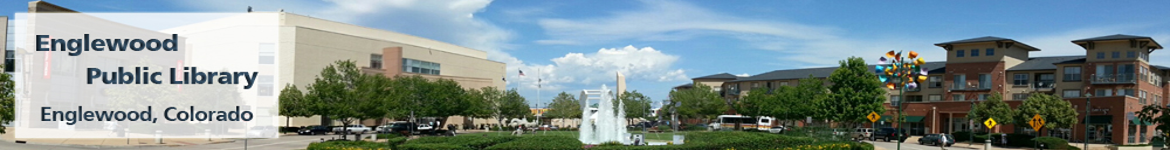
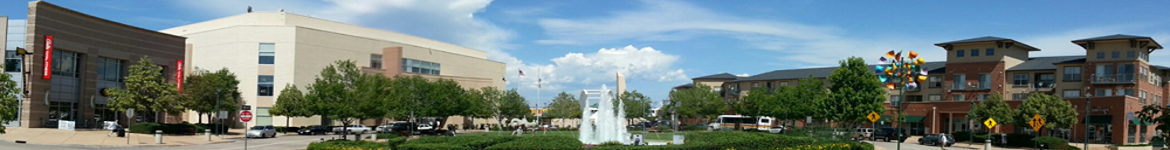
Update header for englewood

Changed region(s): [[0.0, 0.0533, 0.2462, 0.9333]]

diff --git a/vufind/web/interface/themes/englewood/css/main.min.css b/vufind/web/interface/themes/englewood/css/main.min.css
@@ -5,4 +5,4 @@
  * Licensed under the Apache License v2.0
  * http://www.apache.org/licenses/LICENSE-2.0
  *
- */.datepicker{top:0;left:0;padding:4px;margin-top:1px;border-top-right-radius:4px;border-bottom-right-radius:4px;border-bottom-left-radius:4px;border-top-left-radius:4px}.datepicker:before{content:'';display:inline-block;border-left:7px solid transparent;border-right:7px solid transparent;border-bottom:7px solid #ccc;border-bottom-color:rgba(0,0,0,0.2);position:absolute;top:-7px;left:6px}.datepicker:after{content:'';display:inline-block;border-left:6px solid transparent;border-right:6px solid transparent;border-bottom:6px solid #fff;position:absolute;top:-6px;left:7px}.datepicker>div{display:none}.datepicker table{width:100%;margin:0}.datepicker td,.datepicker th{text-align:center;width:20px;height:20px;border-top-right-radius:4px;border-bottom-right-radius:4px;border-bottom-left-radius:4px;border-top-left-radius:4px}.datepicker td.day:hover{background:#eee;cursor:pointer}.datepicker td.day.disabled{color:#eee}.datepicker td.old,.datepicker td.new{color:#999}.datepicker td.active,.datepicker td.active:hover{color:#428bca;background-color:#425eca;border-color:#357ebd;color:#fff;text-shadow:0 -1px 0 rgba(0,0,0,0.25)}.datepicker td.active:hover,.datepicker td.active:hover:hover,.datepicker td.active:focus,.datepicker td.active:hover:focus,.datepicker td.active:active,.datepicker td.active:hover:active,.datepicker td.active.active,.datepicker td.active:hover.active,.open .dropdown-toggle.datepicker td.active,.open .dropdown-toggle.datepicker td.active:hover{color:#428bca;background-color:#324cb1;border-color:#285e8e}.datepicker td.active:active,.datepicker td.active:hover:active,.datepicker td.active.active,.datepicker td.active:hover.active,.open .dropdown-toggle.datepicker td.active,.open .dropdown-toggle.datepicker td.active:hover{background-image:none}.datepicker td.active.disabled,.datepicker td.active:hover.disabled,.datepicker td.active[disabled],.datepicker td.active:hover[disabled],fieldset[disabled] .datepicker td.active,fieldset[disabled] .datepicker td.active:hover,.datepicker td.active.disabled:hover,.datepicker td.active:hover.disabled:hover,.datepicker td.active[disabled]:hover,.datepicker td.active:hover[disabled]:hover,fieldset[disabled] .datepicker td.active:hover,fieldset[disabled] .datepicker td.active:hover:hover,.datepicker td.active.disabled:focus,.datepicker td.active:hover.disabled:focus,.datepicker td.active[disabled]:focus,.datepicker td.active:hover[disabled]:focus,fieldset[disabled] .datepicker td.active:focus,fieldset[disabled] .datepicker td.active:hover:focus,.datepicker td.active.disabled:active,.datepicker td.active:hover.disabled:active,.datepicker td.active[disabled]:active,.datepicker td.active:hover[disabled]:active,fieldset[disabled] .datepicker td.active:active,fieldset[disabled] .datepicker td.active:hover:active,.datepicker td.active.disabled.active,.datepicker td.active:hover.disabled.active,.datepicker td.active[disabled].active,.datepicker td.active:hover[disabled].active,fieldset[disabled] .datepicker td.active.active,fieldset[disabled] .datepicker td.active:hover.active{background-color:#425eca;border-color:#357ebd}.datepicker td.active .badge,.datepicker td.active:hover .badge{color:#425eca;background-color:#fff}.datepicker td span{display:block;width:47px;height:54px;line-height:54px;float:left;margin:2px;cursor:pointer;border-top-right-radius:4px;border-bottom-right-radius:4px;border-bottom-left-radius:4px;border-top-left-radius:4px}.datepicker td span:hover{background:#eee}.datepicker td span.active{color:#428bca;background-color:#425eca;border-color:#357ebd;color:#fff;text-shadow:0 -1px 0 rgba(0,0,0,0.25)}.datepicker td span.active:hover,.datepicker td span.active:focus,.datepicker td span.active:active,.datepicker td span.active.active,.open .dropdown-toggle.datepicker td span.active{color:#428bca;background-color:#324cb1;border-color:#285e8e}.datepicker td span.active:active,.datepicker td span.active.active,.open .dropdown-toggle.datepicker td span.active{background-image:none}.datepicker td span.active.disabled,.datepicker td span.active[disabled],fieldset[disabled] .datepicker td span.active,.datepicker td span.active.disabled:hover,.datepicker td span.active[disabled]:hover,fieldset[disabled] .datepicker td span.active:hover,.datepicker td span.active.disabled:focus,.datepicker td span.active[disabled]:focus,fieldset[disabled] .datepicker td span.active:focus,.datepicker td span.active.disabled:active,.datepicker td span.active[disabled]:active,fieldset[disabled] .datepicker td span.active:active,.datepicker td span.active.disabled.active,.datepicker td span.active[disabled].active,fieldset[disabled] .datepicker td span.active.active{background-color:#425eca;border-color:#357ebd}.datepicker td span.active .badge{color:#425eca;background-color:#fff}.datepicker td span.old{color:#999}.datepicker th.switch{width:145px}.datepicker th.next,.datepicker th.prev{font-size:21px}.datepicker thead tr:first-child th{cursor:pointer}.datepicker thead tr:first-child th:hover{background:#eee}.input-append.date .add-on i,.input-prepend.date .add-on i{display:block;cursor:pointer;width:16px;height:16px}body{color:#6b6b6b}#content-container{padding:0}@media(max-width:768px){#content-container{width:auto}}@media(min-width:768px){#content-container{width:100%}}hr.menu{margin-top:3px;margin-bottom:3px;height:0;border-top:1px solid #d3d3d3}.breadcrumbs{background-color:#f5f5f5;padding:3px}.breadcrumb{padding:0;margin-bottom:0}.breadcrumb>li{display:inline-block}.breadcrumb>li+li:before{content:"";padding:0 5px;color:#ccc}div#system-message-header{background-color:#fff;color:black;text-align:center;padding:3px}#header-container{padding-top:0;height:150px;background-color:#fff;background:linear-gradient(to bottom,#fff,#fff 85%,#fff);border-bottom:8px solid #01597d;margin-bottom:0;min-height:110px}#header-logo{padding:10px 10px 0 0}@media(max-width:767px){#header-logo{max-width:100%;height:auto}}.header-button{text-align:center;height:142px!important;border-bottom:4px solid #fff}.header-button>a{line-height:142px!important;text-align:center;vertical-align:middle;padding:0;color:#8b8b8b!important;text-shadow:1px 1px white}.header-button>a:visited{color:#8b8b8b!important}.header-button:hover{border-bottom:4px solid #2a6496}.header-primary{border-left:2px solid #d9d8d8;border-right:2px solid #d9d8d8}#library-name-header{font-size:26px;color:#45820d;font-family:"Avante Garde",Verdana,sans-serif;font-weight:bold;white-space:normal;padding-top:5px}#footer-container{border-top:8px solid #01597d;padding-top:3px}#install-info{padding-left:20px}#connect-with-us-info{padding-right:20px}#connect-with-us-label{margin-right:15px}.connect-icon{padding:0 3px 0 3px}#navigation-controls{border-top:8px solid #01597d;background:white}@media print{#side-bar{display:none}}#main-content-with-sidebar{padding-right:0;padding-bottom:15px}#main-content-with-sidebar>.row{margin-right:-30px}.modal{overflow-y:auto}.modal-buttons{margin-left:3px;margin-right:3px}#home-page-search{background-color:#00a4e3;background:linear-gradient(to bottom,#00a4e3,#147ce2);padding:20px 0 10px;margin-bottom:5px}#home-page-search-label{font-size:35px;color:white;text-shadow:1px 1px #999}#home-page-advanced-search-link{color:white}#searchSource{padding:5px 0;color:white;background-color:#147ce2;border:0;width:90%}#keepFiltersSwitchLabel{color:white;font-weight:normal}.sidebar-bold-button{text-align:center;background-color:#7c7c7d;background:linear-gradient(to bottom,#7c7c7d,#3d4244);color:white;padding:3px 0;margin-bottom:15px}.sidebar-bold-button a{color:white}#home-page-login{background-color:#afafaf;color:white;font-size:18px;text-shadow:1px 1px #999;padding:5px;margin-bottom:5px}#home-page-login a{color:white}#home-page-library-section{background-color:#eee;padding:15px 0;height:100%}#home-page-hours-locations{text-align:center;background-color:#7c7c7d;background:linear-gradient(to bottom,#7c7c7d,#3d4244);color:white;padding:3px 0;margin-bottom:15px}#home-page-hours-locations a{color:white}.sidebar-links .panel-group .panel+.panel{margin-top:0}.sidebar-links .panel-heading{padding:5px 15px;background-color:#e7e7e7;background:linear-gradient(to bottom,#e7e7e7,#d7d7d7);border-bottom:1px solid #a1a1a1}.sidebar-links .active .panel-heading{background-color:#4dacde;background:linear-gradient(to bottom,#4dacde,#2796d1)}.sidebar-links .panel-title{font-size:14px;color:#333;text-shadow:1px 1px white}.sidebar-links .active .panel-title{color:white;text-shadow:1px 1px #555}.sidebar-links .panel-body{font-size:13px;color:#333;background-color:#eee}#home-page-browse-header{background-color:#d7dce3;padding-bottom:15px}#home-page-browse-content{background-color:#d7dce3}#browse-label{height:5px;background-color:#bbd4e3;margin-top:15px;margin-bottom:15px;margin-right:-15px}.browse-label-text{background-color:#d7dce3;font-size:22px;color:#3497d1;line-height:5px;vertical-align:top;margin:auto;padding:0 8px}.browse-arrow{background-color:#9ea0a4;color:#d4d4d4;height:100px;font-weight:bold;vertical-align:center;line-height:90px;font-size:22px}#browse-category-picker .jcarousel-control-prev,#browse-category-picker .jcarousel-control-next{background-color:#9e9fa3;color:#d4d4d4;font-size:50px}.browse-category{color:white;font-size:20px;padding:10px;text-shadow:1px 1px #555;background-color:#5fb7db;height:100px;margin-left:4px;marging-right:4px}.browse-category a{color:white}.browse-category a div{height:80px}.browse-category.selected{border:2px solid #3497d1}.browse-category.category0{background-color:#0d8ec7;background:linear-gradient(to bottom,#0d8ec7,#0d8ec7 82%,#64b7d8 83%,#89cae5 84%,#89cae5 88%,#64b7d8 89%,#0d8ec7 90%,#0d8ec7)}.browse-category.category1{background-color:#0e98d5;background:linear-gradient(to bottom,#0e98d5,#0e98d5 82%,#64b7d8 83%,#89cae5 84%,#89cae5 88%,#64b7d8 89%,#0e98d5 90%,#0e98d5)}.browse-category.category2{background-color:#0fa2e4;background:linear-gradient(to bottom,#0fa2e4,#0fa2e4 82%,#64b7d8 83%,#89cae5 84%,#89cae5 88%,#64b7d8 89%,#0fa2e4 90%,#0fa2e4)}.browse-category.category3{background-color:#12acf0;background:linear-gradient(to bottom,#12acf0,#12acf0 82%,#64b7d8 83%,#89cae5 84%,#89cae5 88%,#64b7d8 89%,#12acf0 90%,#12acf0)}.browse-category.category4{background-color:#21b1f0;background:linear-gradient(to bottom,#21b1f0,#21b1f0 82%,#64b7d8 83%,#89cae5 84%,#89cae5 88%,#64b7d8 89%,#21b1f0 90%,#21b1f0)}.browse-category.category5{background-color:#2fb6f1;background:linear-gradient(to bottom,#2fb6f1,#2fb6f1 82%,#64b7d8 83%,#89cae5 84%,#89cae5 88%,#64b7d8 89%,#2fb6f1 90%,#2fb6f1)}.browse-category.category6{background-color:#3dbbf2;background:linear-gradient(to bottom,#3dbbf2,#3dbbf2 82%,#64b7d8 83%,#89cae5 84%,#89cae5 88%,#64b7d8 89%,#3dbbf2 90%,#3dbbf2)}.browse-category.category7{background-color:#4cc0f3;background:linear-gradient(to bottom,#4cc0f3,#4cc0f3 82%,#64b7d8 83%,#89cae5 84%,#89cae5 88%,#64b7d8 89%,#4cc0f3 90%,#4cc0f3)}.browse-category.category8{background-color:#5ac5f4;background:linear-gradient(to bottom,#5ac5f4,#5ac5f4 82%,#64b7d8 83%,#89cae5 84%,#89cae5 88%,#64b7d8 89%,#5ac5f4 90%,#5ac5f4)}#home-page-browse-results{padding:15px;background-color:white}#selected-browse-label{background-color:white;background:linear-gradient(to bottom,#fff,#fff 44%,#bbd4e3 45%,#bbd4e3 55%,#fff 56%);margin-bottom:5px}.selected-browse-label-text{background-color:white;font-size:20px;color:#0072bc;vertical-align:top;float:left;margin-left:20px;padding:0 8px}.selected-browse-label-search{background-color:white;font-size:20px;color:#0072bc;vertical-align:top;float:right;margin-right:20px;padding:0 8px}.selected-browse-label-search a{color:#0072bc}.browse-category:hover{background-color:lightskyblue;color:darkblue}.browse-rating{margin-top:5px}#home-page-browse-thumbnails{-webkit-column-gap:15px;-moz-column-gap:15px;column-gap:15px}@media(min-width:0){#home-page-browse-thumbnails{-webkit-column-count:2;-moz-column-count:2;column-count:2}}@media(min-width:768px){#home-page-browse-thumbnails{-webkit-column-count:3;-moz-column-count:3;column-count:3}}@media(min-width:992px){#home-page-browse-thumbnails{-webkit-column-count:4;-moz-column-count:4;column-count:4}}@media(min-width:1200px){#home-page-browse-thumbnails{-webkit-column-count:6;-moz-column-count:6;column-count:6}}.browse-thumbnail{break-inside:avoid-column;-webkit-column-break-inside:avoid;display:inline-block}.browse-thumbnail{text-align:center}.browse-thumbnail img{width:100%}#more-browse-results{background-color:#e6e6e6;color:#c7c9ca;text-align:center;font-weight:bold;font-size:16px;padding:2px}#account-settings-accordion .panel-group .panel+.panel{margin-top:0}#account-settings-accordion .panel-heading{padding:5px 15px;background:linear-gradient(to bottom,#e7e7e7,#d7d7d7);border-bottom:1px solid #a1a1a1}#account-settings-accordion .active .panel-heading{background:linear-gradient(to bottom,#4dacde,#0f8fd2)}#account-settings-accordion .panel-title{font-size:13px;color:#333;text-shadow:1px 1px white}#account-settings-accordion .active .panel-title{color:white;text-shadow:1px 1px #555}#account-settings-accordion .panel-body{font-size:12px;color:#333;background-color:#eee}.overdueLabel{color:red;font-weight:bold}.dueSoonLabel{color:#e58e29;font-weight:bold}.faqQuestion{font-size:medium;color:blue;font-weight:bold;margin-top:15px}.faqAnswer{font-size:small;font-style:italic;margin-left:1em}.wikipedia_image{margin:0 10px 10px}@media(min-width:767px){.wikipedia_image{float:left}}@media(max-width:767px){.wikipedia_image{display:block;margin:0 auto 10px}}.titleScrollerHeader{background:url(/interface/themes/default/images/breadcrumb-gradient.png) repeat-x top left;padding:2px;color:#00125e;font-size:12px;font-weight:bold;height:15px}.titleScrollerHeader .linkTab{padding-right:10px;float:left}.titleScrollerHeader .linkTab .first{padding-right:0}#listSelection{border:0;background:0;color:#00125e}.titleScrollerBody{background-color:white;clear:both;position:relative}.leftScrollerButton{display:inline-block;height:135px;line-height:135px;vertical-align:middle;width:25px;float:left;cursor:pointer;margin-left:5px;margin-top:5px;zoom:1;*display:inline}.rightScrollerButton{display:inline-block;height:135px;line-height:135px;vertical-align:middle;width:25px;float:right;cursor:pointer;margin-right:5px;margin-top:5px;z-index:100;zoom:1;*display:inline}.titleScrollerSelectedTitle{width:100%;text-align:center;font-weight:bold;color:#00125e}.titleScrollerSelectedAuthor{width:100%;text-align:center;font-weight:bold;color:#a9a9a9}.scrollerBodyContainer{position:relative;overflow:hidden;margin:5px 40px}.scrollerBody{padding:7px;margin:0 7px;height:140px;position:relative}.scrollerLoadingContainer{width:100%;padding-top:40px;text-align:center}.scrollerTitle{display:inline-block;margin:2px;vertical-align:middle;padding:3px;max-width:129px;zoom:1;*display:inline}.scrollerTitleCover{max-width:125px;max-height:125px;padding:3px}.scrollerTitle img{opacity:.6}.scrollerTitle:hover img{opacity:.8}.scrollerTitle.selected{border:3px solid #00125e;border-radius:3px;padding:0}.scrollerTitle.selected img{opacity:1}.listWidgetSelector{width:100%;text-align:right}.singleTitleWidget{width:200px}.singleTitleWidget .scrollerTitle img{display:inline-block;opacity:1}.singleTitleWidget .scrollerTitle.selected img{display:inline-block}.singleTitleWidget .scrollerTitle.selected{border:0 solid black;border-radius:3px;padding:0}.singleTitleWidget .scrollerBodyContainer{margin:5px 0;text-align:center;width:100%}.verticalTitleScroller{width:150px;height:100%}.verticalTitleScroller .titleScrollerBody{position:relative;overflow:hidden}.verticalTitleScroller .scrollerTitle{display:block}.verticalTitleScroller .scrollerBodyContainer{margin:5px;text-align:center}.scrollerButtonUp{z-index:100;position:absolute;top:0;left:0;height:25px;width:148px;cursor:pointer;text-align:center}.scrollerButtonDown{position:absolute;bottom:0;left:0;height:25px;width:148px;cursor:pointer;z-index:100;text-align:center}.holdingsSummary{margin-left:5px;padding:7px}.statVal{padding:6px 0 2px}#list-series.titleScroller{border:1px solid #949494}#list-series{margin:8px 0}#list-morelikethis.titleScroller{border:1px solid #949494}#list-morelikethis{margin:8px 0}.statusValue.available,.statusValue.here{color:#090;font-weight:bold}.statusValue.nearby,.holdingsSummaryStatusLine.availableOther{color:#b09;font-weight:bold}.statusValue.unavailable,.statusValue.checkedOut,.statusValue.checkedout,.statusValue.reserve{color:#c00;font-weight:bold}#recordcover{position:relative}.godeeper{bottom:4px;float:right;position:absolute;right:-5px;z-index:2}.eContentHolding{width:100%;border:1px solid #aaa;border-radius:3px;margin-bottom:10px;position:relative;background-color:white}.eContentHoldingHeader{background-color:#ededed;padding:5px;font-size:12px}.eContentHoldingFormat{font-weight:bold;font-size:14px}.eContentHoldingUsage{font-style:italic;font-size:12px}.eContentHoldingActions{margin:8px 10px}.eContentHoldingNotes{font-size:11px;margin:2px 10px}.eContentFormatUsage{font-size:11px}.hold_result_title_failed{color:#a94442}.hold_result_title_ok{color:#3c763d}.checkInCell{border:1px solid #3e63a6;float:left;height:5em;padding:4px;width:150px}.result{border-bottom:2px solid #d5d6da;padding:10px 5px 15px;font-size:12px}.result-value-bold{font-weight:bold}.result-label{font-weight:bold;color:#44484a}#formatCategories{border-bottom:3px solid #d5d6da;padding-top:3px;padding-bottom:8px}@media(max-width:480px){#formatCategories{display:none}}.top-facet{margin-bottom:10px}.facetCol{display:inline-block;padding:15px;width:120px;vertical-align:top}.facetValue{padding:0 0 0 30px;color:#888;font-size:small}.facetValue a{color:#888}.facetValue:first-of-type{margin-top:3px}.facetValue:last-of-type{margin-bottom:3px}.sidebar-label{text-align:center;background-color:#7c7c7d;background:linear-gradient(to bottom,#7c7c7d,#3d4244);color:white;padding:3px 0;margin-top:20px}#narrow-search-label{text-align:center;background-color:#7c7c7d;background:linear-gradient(to bottom,#7c7c7d,#3d4244);color:white;padding:3px 0;margin-top:20px}.facetTitle{background-color:#e8e8e8;background:linear-gradient(to bottom,#e8e8e8,#d7d7d7);color:#555;text-shadow:1px 1px #fcfcfc;padding:8px 30px 6px 30px;border-top:1px solid #f4f4f4;border-bottom:1px solid #adadad}.categoryValue{font-size:smaller}.formatCategoryLabel{vertical-align:center;color:#8d929a;margin-top:3px}.formatCategoryLabel a{color:#8d929a}#results-sort-label{text-align:center;background-color:#7c7c7d;background:linear-gradient(to bottom,#7c7c7d,#3d4244);color:white;padding:3px 0;margin-top:20px;font-size:14px}#results-sort{width:80%;margin:5px 10%}.result-head{font-size:smaller;color:#0d8ec6}#replacement-search-info{font-size:16px;font-style:italic}#original-search-info{font-size:12px}.replacement-search-info-text{color:#888;font-style:normal}.result-title{font-weight:bold;font-size:18px}.result-index{font-size:18px}.result-tools-horizontal{margin-top:6px;margin-left:30px}.result-tools-horizontal .btn{background-color:#909090;background:linear-gradient(to bottom,#909090,#686b6c);color:white}.related-manifestations{margin-top:3px}.manifestation-toggle{display:inline-block;background-color:#777272;padding:3px;color:white;font-weight:bold;width:18px;height:18px;text-align:center;line-height:14px}.manifestation-toggle-placeholder{display:inline-block;padding:3px;width:20px;height:18px}.manifestation-toggle{content:"-"}.manifestation-toggle.collapsed{content:"+"}.related-manifestation{padding-top:4px;padding-bottom:4px;border-bottom:1px dotted #d3d3d3}.related-manifestations-header{border-bottom:1px solid #d3d3d3}.manifestation-actions .btn{background-color:#088ec6;color:white}.related-manifestations{margin-bottom:5px}.manifestation-format{font-size:13px;font-weight:bold}.related-manifestation-shelf-status{font-size:13px;font-weight:bold}.related-manifestation-shelf-status.available{color:green}.related-manifestation-shelf-status.checked_out{color:red}.related-manifestation-shelf-status.availableOther{color:#b09}.related_record_status{font-size:13px;font-weight:bold}.related_record_status.available{color:green;font-size:14px}.related_record_status.checked_out{color:red}.related_record_status.availableOther{color:red}.moreFacetPopup{-webkit-column-gap:15px;-moz-column-gap:15px;column-gap:15px}@media(min-width:0){.moreFacetPopup{-webkit-column-count:1;-moz-column-count:1;column-count:1}}@media(min-width:768px){.moreFacetPopup{-webkit-column-count:2;-moz-column-count:2;column-count:2}}@media(min-width:992px){.moreFacetPopup{-webkit-column-count:3;-moz-column-count:3;column-count:3}}.graph-bar{background-color:#088ec6}.userreviewlink{background-color:#088ec6;color:#fff}@media(min-width:480px){#side-bar .userreviewlink{width:196px}}.userreviewlink:hover{background-color:#2897c6;color:#fff}.addtolistlink{background-color:#088ec6;color:#fff;width:196px}.addtolistlink:hover{background-color:#2897c6;color:#fff}.full-record-tools{padding:4px 35px}.full-rating{padding:10px 5px 4px}.rating-graph{margin:4px 0}.rating-graph .row{margin-top:2px}.title-rating{margin-top:4px}.share-tools{background-color:#e6e6e6;background:linear-gradient(to bottom,#e7e7e7,#d7d7d7);color:#6e6f6f;border-bottom:1px solid #adadad;font-weight:bold;text-align:left;padding:5px 10px;display:inline-block}.share-tools-label{padding-right:10px}.share-tools img{margin-left:2px;margin-right:2px}#side-bar .share-tools{margin-top:8px;width:200px}#more-details-accordion .panel-group .panel+.panel{margin-top:0}#more-details-accordion .panel-heading{padding:5px 15px;background:linear-gradient(to bottom,#e7e7e7,#d7d7d7);border-bottom:1px solid #a1a1a1}#more-details-accordion .active .panel-heading{background-color:#4dacde;background:linear-gradient(to bottom,#4dacde,#2796d1)}#more-details-accordion .panel-title{font-size:13px;color:#333;text-shadow:1px 1px white}#more-details-accordion .active .panel-title{color:white;text-shadow:1px 1px #555}#more-details-accordion .panel-body{font-size:12px;color:#333;background-color:#eee}.novelist-similar-item{padding:6px}.novelist-similar-item-header{font-size:14px;font-weight:bold;margin-bottom:2px}.novelist-similar-item-reason{font-style:italic;margin-left:6px}#prospectorSearchResultsHeader{padding-top:15px}#prospectorSearchResultsTitle{padding-top:15px;font-size:140%;font-weight:normal}#prospectorSearchResultsNote{font-style:italic;margin-bottom:.5em}#prospectorMan{float:left;margin-right:7px}#moreResultsFromProspector{margin:5px;text-align:right}#header-container{background-image:url('/interface/themes/englewood/images/header_background.png');background-repeat:no-repeat}#header-logo{display:none}.header-button{border-radius:.5em;background-color:rgba(255,255,255,0.75);margin-top:20px;height:60px!important;border:0}.header-button>a{color:black!important;line-height:60px!important;text-shadow:none;font-weight:bolder;font-size:15px}.header-button>a:visited{color:black!important}.header-button:hover{border-bottom:0;box-shadow:2px 2px 5px darkgrey}
+ */.datepicker{top:0;left:0;padding:4px;margin-top:1px;border-top-right-radius:4px;border-bottom-right-radius:4px;border-bottom-left-radius:4px;border-top-left-radius:4px}.datepicker:before{content:'';display:inline-block;border-left:7px solid transparent;border-right:7px solid transparent;border-bottom:7px solid #ccc;border-bottom-color:rgba(0,0,0,0.2);position:absolute;top:-7px;left:6px}.datepicker:after{content:'';display:inline-block;border-left:6px solid transparent;border-right:6px solid transparent;border-bottom:6px solid #fff;position:absolute;top:-6px;left:7px}.datepicker>div{display:none}.datepicker table{width:100%;margin:0}.datepicker td,.datepicker th{text-align:center;width:20px;height:20px;border-top-right-radius:4px;border-bottom-right-radius:4px;border-bottom-left-radius:4px;border-top-left-radius:4px}.datepicker td.day:hover{background:#eee;cursor:pointer}.datepicker td.day.disabled{color:#eee}.datepicker td.old,.datepicker td.new{color:#999}.datepicker td.active,.datepicker td.active:hover{color:#428bca;background-color:#425eca;border-color:#357ebd;color:#fff;text-shadow:0 -1px 0 rgba(0,0,0,0.25)}.datepicker td.active:hover,.datepicker td.active:hover:hover,.datepicker td.active:focus,.datepicker td.active:hover:focus,.datepicker td.active:active,.datepicker td.active:hover:active,.datepicker td.active.active,.datepicker td.active:hover.active,.open .dropdown-toggle.datepicker td.active,.open .dropdown-toggle.datepicker td.active:hover{color:#428bca;background-color:#324cb1;border-color:#285e8e}.datepicker td.active:active,.datepicker td.active:hover:active,.datepicker td.active.active,.datepicker td.active:hover.active,.open .dropdown-toggle.datepicker td.active,.open .dropdown-toggle.datepicker td.active:hover{background-image:none}.datepicker td.active.disabled,.datepicker td.active:hover.disabled,.datepicker td.active[disabled],.datepicker td.active:hover[disabled],fieldset[disabled] .datepicker td.active,fieldset[disabled] .datepicker td.active:hover,.datepicker td.active.disabled:hover,.datepicker td.active:hover.disabled:hover,.datepicker td.active[disabled]:hover,.datepicker td.active:hover[disabled]:hover,fieldset[disabled] .datepicker td.active:hover,fieldset[disabled] .datepicker td.active:hover:hover,.datepicker td.active.disabled:focus,.datepicker td.active:hover.disabled:focus,.datepicker td.active[disabled]:focus,.datepicker td.active:hover[disabled]:focus,fieldset[disabled] .datepicker td.active:focus,fieldset[disabled] .datepicker td.active:hover:focus,.datepicker td.active.disabled:active,.datepicker td.active:hover.disabled:active,.datepicker td.active[disabled]:active,.datepicker td.active:hover[disabled]:active,fieldset[disabled] .datepicker td.active:active,fieldset[disabled] .datepicker td.active:hover:active,.datepicker td.active.disabled.active,.datepicker td.active:hover.disabled.active,.datepicker td.active[disabled].active,.datepicker td.active:hover[disabled].active,fieldset[disabled] .datepicker td.active.active,fieldset[disabled] .datepicker td.active:hover.active{background-color:#425eca;border-color:#357ebd}.datepicker td.active .badge,.datepicker td.active:hover .badge{color:#425eca;background-color:#fff}.datepicker td span{display:block;width:47px;height:54px;line-height:54px;float:left;margin:2px;cursor:pointer;border-top-right-radius:4px;border-bottom-right-radius:4px;border-bottom-left-radius:4px;border-top-left-radius:4px}.datepicker td span:hover{background:#eee}.datepicker td span.active{color:#428bca;background-color:#425eca;border-color:#357ebd;color:#fff;text-shadow:0 -1px 0 rgba(0,0,0,0.25)}.datepicker td span.active:hover,.datepicker td span.active:focus,.datepicker td span.active:active,.datepicker td span.active.active,.open .dropdown-toggle.datepicker td span.active{color:#428bca;background-color:#324cb1;border-color:#285e8e}.datepicker td span.active:active,.datepicker td span.active.active,.open .dropdown-toggle.datepicker td span.active{background-image:none}.datepicker td span.active.disabled,.datepicker td span.active[disabled],fieldset[disabled] .datepicker td span.active,.datepicker td span.active.disabled:hover,.datepicker td span.active[disabled]:hover,fieldset[disabled] .datepicker td span.active:hover,.datepicker td span.active.disabled:focus,.datepicker td span.active[disabled]:focus,fieldset[disabled] .datepicker td span.active:focus,.datepicker td span.active.disabled:active,.datepicker td span.active[disabled]:active,fieldset[disabled] .datepicker td span.active:active,.datepicker td span.active.disabled.active,.datepicker td span.active[disabled].active,fieldset[disabled] .datepicker td span.active.active{background-color:#425eca;border-color:#357ebd}.datepicker td span.active .badge{color:#425eca;background-color:#fff}.datepicker td span.old{color:#999}.datepicker th.switch{width:145px}.datepicker th.next,.datepicker th.prev{font-size:21px}.datepicker thead tr:first-child th{cursor:pointer}.datepicker thead tr:first-child th:hover{background:#eee}.input-append.date .add-on i,.input-prepend.date .add-on i{display:block;cursor:pointer;width:16px;height:16px}body{color:#6b6b6b}#content-container{padding:0}@media(max-width:768px){#content-container{width:auto}}@media(min-width:768px){#content-container{width:100%}}hr.menu{margin-top:3px;margin-bottom:3px;height:0;border-top:1px solid #d3d3d3}.breadcrumbs{background-color:#f5f5f5;padding:3px}.breadcrumb{padding:0;margin-bottom:0}.breadcrumb>li{display:inline-block}.breadcrumb>li+li:before{content:"";padding:0 5px;color:#ccc}div#system-message-header{background-color:#fff;color:black;text-align:center;padding:3px}#header-container{padding-top:0;height:150px;background-color:#fff;background:linear-gradient(to bottom,#fff,#fff 85%,#fff);border-bottom:8px solid #01597d;margin-bottom:0;min-height:110px}#header-logo{padding:10px 10px 0 0}@media(max-width:767px){#header-logo{max-width:100%;height:auto}}.header-button{text-align:center;height:142px!important;border-bottom:4px solid #fff}.header-button>a{line-height:142px!important;text-align:center;vertical-align:middle;padding:0;color:#8b8b8b!important;text-shadow:1px 1px white}.header-button>a:visited{color:#8b8b8b!important}.header-button:hover{border-bottom:4px solid #2a6496}.header-primary{border-left:2px solid #d9d8d8;border-right:2px solid #d9d8d8}#library-name-header{font-size:26px;color:#45820d;font-family:"Avante Garde",Verdana,sans-serif;font-weight:bold;white-space:normal;padding-top:5px}#footer-container{border-top:8px solid #01597d;padding-top:3px}#install-info{padding-left:20px}#connect-with-us-info{padding-right:20px}#connect-with-us-label{margin-right:15px}.connect-icon{padding:0 3px 0 3px}#navigation-controls{border-top:8px solid #01597d;background:white}@media print{#side-bar{display:none}}#main-content-with-sidebar{padding-right:0;padding-bottom:15px}#main-content-with-sidebar>.row{margin-right:-30px}.modal{overflow-y:auto}.modal-buttons{margin-left:3px;margin-right:3px}#home-page-search{background-color:#00a4e3;background:linear-gradient(to bottom,#00a4e3,#147ce2);padding:20px 0 10px;margin-bottom:5px}#home-page-search-label{font-size:35px;color:white;text-shadow:1px 1px #999}#home-page-advanced-search-link{color:white}#searchSource{padding:5px 0;color:white;background-color:#147ce2;border:0;width:90%}#keepFiltersSwitchLabel{color:white;font-weight:normal}.sidebar-bold-button{text-align:center;background-color:#7c7c7d;background:linear-gradient(to bottom,#7c7c7d,#3d4244);color:white;padding:3px 0;margin-bottom:15px}.sidebar-bold-button a{color:white}#home-page-login{background-color:#afafaf;color:white;font-size:18px;text-shadow:1px 1px #999;padding:5px;margin-bottom:5px}#home-page-login a{color:white}#home-page-library-section{background-color:#eee;padding:15px 0;height:100%}#home-page-hours-locations{text-align:center;background-color:#7c7c7d;background:linear-gradient(to bottom,#7c7c7d,#3d4244);color:white;padding:3px 0;margin-bottom:15px}#home-page-hours-locations a{color:white}.sidebar-links .panel-group .panel+.panel{margin-top:0}.sidebar-links .panel-heading{padding:5px 15px;background-color:#e7e7e7;background:linear-gradient(to bottom,#e7e7e7,#d7d7d7);border-bottom:1px solid #a1a1a1}.sidebar-links .active .panel-heading{background-color:#4dacde;background:linear-gradient(to bottom,#4dacde,#2796d1)}.sidebar-links .panel-title{font-size:14px;color:#333;text-shadow:1px 1px white}.sidebar-links .active .panel-title{color:white;text-shadow:1px 1px #555}.sidebar-links .panel-body{font-size:13px;color:#333;background-color:#eee}#home-page-browse-header{background-color:#d7dce3;padding-bottom:15px}#home-page-browse-content{background-color:#d7dce3}#browse-label{height:5px;background-color:#bbd4e3;margin-top:15px;margin-bottom:15px;margin-right:-15px}.browse-label-text{background-color:#d7dce3;font-size:22px;color:#3497d1;line-height:5px;vertical-align:top;margin:auto;padding:0 8px}.browse-arrow{background-color:#9ea0a4;color:#d4d4d4;height:100px;font-weight:bold;vertical-align:center;line-height:90px;font-size:22px}#browse-category-picker .jcarousel-control-prev,#browse-category-picker .jcarousel-control-next{background-color:#9e9fa3;color:#d4d4d4;font-size:50px}.browse-category{color:white;font-size:20px;padding:10px;text-shadow:1px 1px #555;background-color:#5fb7db;height:100px;margin-left:4px;marging-right:4px}.browse-category a{color:white}.browse-category a div{height:80px}.browse-category.selected{border:2px solid #3497d1}.browse-category.category0{background-color:#0d8ec7;background:linear-gradient(to bottom,#0d8ec7,#0d8ec7 82%,#64b7d8 83%,#89cae5 84%,#89cae5 88%,#64b7d8 89%,#0d8ec7 90%,#0d8ec7)}.browse-category.category1{background-color:#0e98d5;background:linear-gradient(to bottom,#0e98d5,#0e98d5 82%,#64b7d8 83%,#89cae5 84%,#89cae5 88%,#64b7d8 89%,#0e98d5 90%,#0e98d5)}.browse-category.category2{background-color:#0fa2e4;background:linear-gradient(to bottom,#0fa2e4,#0fa2e4 82%,#64b7d8 83%,#89cae5 84%,#89cae5 88%,#64b7d8 89%,#0fa2e4 90%,#0fa2e4)}.browse-category.category3{background-color:#12acf0;background:linear-gradient(to bottom,#12acf0,#12acf0 82%,#64b7d8 83%,#89cae5 84%,#89cae5 88%,#64b7d8 89%,#12acf0 90%,#12acf0)}.browse-category.category4{background-color:#21b1f0;background:linear-gradient(to bottom,#21b1f0,#21b1f0 82%,#64b7d8 83%,#89cae5 84%,#89cae5 88%,#64b7d8 89%,#21b1f0 90%,#21b1f0)}.browse-category.category5{background-color:#2fb6f1;background:linear-gradient(to bottom,#2fb6f1,#2fb6f1 82%,#64b7d8 83%,#89cae5 84%,#89cae5 88%,#64b7d8 89%,#2fb6f1 90%,#2fb6f1)}.browse-category.category6{background-color:#3dbbf2;background:linear-gradient(to bottom,#3dbbf2,#3dbbf2 82%,#64b7d8 83%,#89cae5 84%,#89cae5 88%,#64b7d8 89%,#3dbbf2 90%,#3dbbf2)}.browse-category.category7{background-color:#4cc0f3;background:linear-gradient(to bottom,#4cc0f3,#4cc0f3 82%,#64b7d8 83%,#89cae5 84%,#89cae5 88%,#64b7d8 89%,#4cc0f3 90%,#4cc0f3)}.browse-category.category8{background-color:#5ac5f4;background:linear-gradient(to bottom,#5ac5f4,#5ac5f4 82%,#64b7d8 83%,#89cae5 84%,#89cae5 88%,#64b7d8 89%,#5ac5f4 90%,#5ac5f4)}#home-page-browse-results{padding:15px;background-color:white}#selected-browse-label{background-color:white;background:linear-gradient(to bottom,#fff,#fff 44%,#bbd4e3 45%,#bbd4e3 55%,#fff 56%);margin-bottom:5px}.selected-browse-label-text{background-color:white;font-size:20px;color:#0072bc;vertical-align:top;float:left;margin-left:20px;padding:0 8px}.selected-browse-label-search{background-color:white;font-size:20px;color:#0072bc;vertical-align:top;float:right;margin-right:20px;padding:0 8px}.selected-browse-label-search a{color:#0072bc}.browse-category:hover{background-color:lightskyblue;color:darkblue}.browse-rating{margin-top:5px}#home-page-browse-thumbnails{-webkit-column-gap:15px;-moz-column-gap:15px;column-gap:15px}@media(min-width:0){#home-page-browse-thumbnails{-webkit-column-count:2;-moz-column-count:2;column-count:2}}@media(min-width:768px){#home-page-browse-thumbnails{-webkit-column-count:3;-moz-column-count:3;column-count:3}}@media(min-width:992px){#home-page-browse-thumbnails{-webkit-column-count:4;-moz-column-count:4;column-count:4}}@media(min-width:1200px){#home-page-browse-thumbnails{-webkit-column-count:6;-moz-column-count:6;column-count:6}}.browse-thumbnail{break-inside:avoid-column;-webkit-column-break-inside:avoid;display:inline-block}.browse-thumbnail{text-align:center}.browse-thumbnail img{width:100%}#more-browse-results{background-color:#e6e6e6;color:#c7c9ca;text-align:center;font-weight:bold;font-size:16px;padding:2px}#account-settings-accordion .panel-group .panel+.panel{margin-top:0}#account-settings-accordion .panel-heading{padding:5px 15px;background:linear-gradient(to bottom,#e7e7e7,#d7d7d7);border-bottom:1px solid #a1a1a1}#account-settings-accordion .active .panel-heading{background:linear-gradient(to bottom,#4dacde,#0f8fd2)}#account-settings-accordion .panel-title{font-size:13px;color:#333;text-shadow:1px 1px white}#account-settings-accordion .active .panel-title{color:white;text-shadow:1px 1px #555}#account-settings-accordion .panel-body{font-size:12px;color:#333;background-color:#eee}.overdueLabel{color:red;font-weight:bold}.dueSoonLabel{color:#e58e29;font-weight:bold}.faqQuestion{font-size:medium;color:blue;font-weight:bold;margin-top:15px}.faqAnswer{font-size:small;font-style:italic;margin-left:1em}.wikipedia_image{margin:0 10px 10px}@media(min-width:767px){.wikipedia_image{float:left}}@media(max-width:767px){.wikipedia_image{display:block;margin:0 auto 10px}}.titleScrollerHeader{background:url(/interface/themes/default/images/breadcrumb-gradient.png) repeat-x top left;padding:2px;color:#00125e;font-size:12px;font-weight:bold;height:15px}.titleScrollerHeader .linkTab{padding-right:10px;float:left}.titleScrollerHeader .linkTab .first{padding-right:0}#listSelection{border:0;background:0;color:#00125e}.titleScrollerBody{background-color:white;clear:both;position:relative}.leftScrollerButton{display:inline-block;height:135px;line-height:135px;vertical-align:middle;width:25px;float:left;cursor:pointer;margin-left:5px;margin-top:5px;zoom:1;*display:inline}.rightScrollerButton{display:inline-block;height:135px;line-height:135px;vertical-align:middle;width:25px;float:right;cursor:pointer;margin-right:5px;margin-top:5px;z-index:100;zoom:1;*display:inline}.titleScrollerSelectedTitle{width:100%;text-align:center;font-weight:bold;color:#00125e}.titleScrollerSelectedAuthor{width:100%;text-align:center;font-weight:bold;color:#a9a9a9}.scrollerBodyContainer{position:relative;overflow:hidden;margin:5px 40px}.scrollerBody{padding:7px;margin:0 7px;height:140px;position:relative}.scrollerLoadingContainer{width:100%;padding-top:40px;text-align:center}.scrollerTitle{display:inline-block;margin:2px;vertical-align:middle;padding:3px;max-width:129px;zoom:1;*display:inline}.scrollerTitleCover{max-width:125px;max-height:125px;padding:3px}.scrollerTitle img{opacity:.6}.scrollerTitle:hover img{opacity:.8}.scrollerTitle.selected{border:3px solid #00125e;border-radius:3px;padding:0}.scrollerTitle.selected img{opacity:1}.listWidgetSelector{width:100%;text-align:right}.singleTitleWidget{width:200px}.singleTitleWidget .scrollerTitle img{display:inline-block;opacity:1}.singleTitleWidget .scrollerTitle.selected img{display:inline-block}.singleTitleWidget .scrollerTitle.selected{border:0 solid black;border-radius:3px;padding:0}.singleTitleWidget .scrollerBodyContainer{margin:5px 0;text-align:center;width:100%}.verticalTitleScroller{width:150px;height:100%}.verticalTitleScroller .titleScrollerBody{position:relative;overflow:hidden}.verticalTitleScroller .scrollerTitle{display:block}.verticalTitleScroller .scrollerBodyContainer{margin:5px;text-align:center}.scrollerButtonUp{z-index:100;position:absolute;top:0;left:0;height:25px;width:148px;cursor:pointer;text-align:center}.scrollerButtonDown{position:absolute;bottom:0;left:0;height:25px;width:148px;cursor:pointer;z-index:100;text-align:center}.holdingsSummary{margin-left:5px;padding:7px}.statVal{padding:6px 0 2px}#list-series.titleScroller{border:1px solid #949494}#list-series{margin:8px 0}#list-morelikethis.titleScroller{border:1px solid #949494}#list-morelikethis{margin:8px 0}.statusValue.available,.statusValue.here{color:#090;font-weight:bold}.statusValue.nearby,.holdingsSummaryStatusLine.availableOther{color:#b09;font-weight:bold}.statusValue.unavailable,.statusValue.checkedOut,.statusValue.checkedout,.statusValue.reserve{color:#c00;font-weight:bold}#recordcover{position:relative}.godeeper{bottom:4px;float:right;position:absolute;right:-5px;z-index:2}.eContentHolding{width:100%;border:1px solid #aaa;border-radius:3px;margin-bottom:10px;position:relative;background-color:white}.eContentHoldingHeader{background-color:#ededed;padding:5px;font-size:12px}.eContentHoldingFormat{font-weight:bold;font-size:14px}.eContentHoldingUsage{font-style:italic;font-size:12px}.eContentHoldingActions{margin:8px 10px}.eContentHoldingNotes{font-size:11px;margin:2px 10px}.eContentFormatUsage{font-size:11px}.hold_result_title_failed{color:#a94442}.hold_result_title_ok{color:#3c763d}.checkInCell{border:1px solid #3e63a6;float:left;height:5em;padding:4px;width:150px}.result{border-bottom:2px solid #d5d6da;padding:10px 5px 15px;font-size:12px}.result-value-bold{font-weight:bold}.result-label{font-weight:bold;color:#44484a}#formatCategories{border-bottom:3px solid #d5d6da;padding-top:3px;padding-bottom:8px}@media(max-width:480px){#formatCategories{display:none}}.top-facet{margin-bottom:10px}.facetCol{display:inline-block;padding:15px;width:120px;vertical-align:top}.facetValue{padding:0 0 0 30px;color:#888;font-size:small}.facetValue a{color:#888}.facetValue:first-of-type{margin-top:3px}.facetValue:last-of-type{margin-bottom:3px}.sidebar-label{text-align:center;background-color:#7c7c7d;background:linear-gradient(to bottom,#7c7c7d,#3d4244);color:white;padding:3px 0;margin-top:20px}#narrow-search-label{text-align:center;background-color:#7c7c7d;background:linear-gradient(to bottom,#7c7c7d,#3d4244);color:white;padding:3px 0;margin-top:20px}.facetTitle{background-color:#e8e8e8;background:linear-gradient(to bottom,#e8e8e8,#d7d7d7);color:#555;text-shadow:1px 1px #fcfcfc;padding:8px 30px 6px 30px;border-top:1px solid #f4f4f4;border-bottom:1px solid #adadad}.categoryValue{font-size:smaller}.formatCategoryLabel{vertical-align:center;color:#8d929a;margin-top:3px}.formatCategoryLabel a{color:#8d929a}#results-sort-label{text-align:center;background-color:#7c7c7d;background:linear-gradient(to bottom,#7c7c7d,#3d4244);color:white;padding:3px 0;margin-top:20px;font-size:14px}#results-sort{width:80%;margin:5px 10%}.result-head{font-size:smaller;color:#0d8ec6}#replacement-search-info{font-size:16px;font-style:italic}#original-search-info{font-size:12px}.replacement-search-info-text{color:#888;font-style:normal}.result-title{font-weight:bold;font-size:18px}.result-index{font-size:18px}.result-tools-horizontal{margin-top:6px;margin-left:30px}.result-tools-horizontal .btn{background-color:#909090;background:linear-gradient(to bottom,#909090,#686b6c);color:white}.related-manifestations{margin-top:3px}.manifestation-toggle{display:inline-block;background-color:#777272;padding:3px;color:white;font-weight:bold;width:18px;height:18px;text-align:center;line-height:14px}.manifestation-toggle-placeholder{display:inline-block;padding:3px;width:20px;height:18px}.manifestation-toggle{content:"-"}.manifestation-toggle.collapsed{content:"+"}.related-manifestation{padding-top:4px;padding-bottom:4px;border-bottom:1px dotted #d3d3d3}.related-manifestations-header{border-bottom:1px solid #d3d3d3}.manifestation-actions .btn{background-color:#088ec6;color:white}.related-manifestations{margin-bottom:5px}.manifestation-format{font-size:13px;font-weight:bold}.related-manifestation-shelf-status{font-size:13px;font-weight:bold}.related-manifestation-shelf-status.available{color:green}.related-manifestation-shelf-status.checked_out{color:red}.related-manifestation-shelf-status.availableOther{color:#b09}.related_record_status{font-size:13px;font-weight:bold}.related_record_status.available{color:green;font-size:14px}.related_record_status.checked_out{color:red}.related_record_status.availableOther{color:red}.moreFacetPopup{-webkit-column-gap:15px;-moz-column-gap:15px;column-gap:15px}@media(min-width:0){.moreFacetPopup{-webkit-column-count:1;-moz-column-count:1;column-count:1}}@media(min-width:768px){.moreFacetPopup{-webkit-column-count:2;-moz-column-count:2;column-count:2}}@media(min-width:992px){.moreFacetPopup{-webkit-column-count:3;-moz-column-count:3;column-count:3}}.graph-bar{background-color:#088ec6}.userreviewlink{background-color:#088ec6;color:#fff}@media(min-width:480px){#side-bar .userreviewlink{width:196px}}.userreviewlink:hover{background-color:#2897c6;color:#fff}.addtolistlink{background-color:#088ec6;color:#fff;width:196px}.addtolistlink:hover{background-color:#2897c6;color:#fff}.full-record-tools{padding:4px 35px}.full-rating{padding:10px 5px 4px}.rating-graph{margin:4px 0}.rating-graph .row{margin-top:2px}.title-rating{margin-top:4px}.share-tools{background-color:#e6e6e6;background:linear-gradient(to bottom,#e7e7e7,#d7d7d7);color:#6e6f6f;border-bottom:1px solid #adadad;font-weight:bold;text-align:left;padding:5px 10px;display:inline-block}.share-tools-label{padding-right:10px}.share-tools img{margin-left:2px;margin-right:2px}#side-bar .share-tools{margin-top:8px;width:200px}#more-details-accordion .panel-group .panel+.panel{margin-top:0}#more-details-accordion .panel-heading{padding:5px 15px;background:linear-gradient(to bottom,#e7e7e7,#d7d7d7);border-bottom:1px solid #a1a1a1}#more-details-accordion .active .panel-heading{background-color:#4dacde;background:linear-gradient(to bottom,#4dacde,#2796d1)}#more-details-accordion .panel-title{font-size:13px;color:#333;text-shadow:1px 1px white}#more-details-accordion .active .panel-title{color:white;text-shadow:1px 1px #555}#more-details-accordion .panel-body{font-size:12px;color:#333;background-color:#eee}.novelist-similar-item{padding:6px}.novelist-similar-item-header{font-size:14px;font-weight:bold;margin-bottom:2px}.novelist-similar-item-reason{font-style:italic;margin-left:6px}#prospectorSearchResultsHeader{padding-top:15px}#prospectorSearchResultsTitle{padding-top:15px;font-size:140%;font-weight:normal}#prospectorSearchResultsNote{font-style:italic;margin-bottom:.5em}#prospectorMan{float:left;margin-right:7px}#moreResultsFromProspector{margin:5px;text-align:right}#header-container{background-image:url('/interface/themes/englewood/images/header_background.png');background-repeat:no-repeat}.header-button{border-radius:.5em;background-color:rgba(255,255,255,0.75);margin-top:20px;height:60px!important;border:0}.header-button>a{color:black!important;line-height:60px!important;text-shadow:none;font-weight:bolder;font-size:15px}.header-button>a:visited{color:black!important}.header-button:hover{border-bottom:0;box-shadow:2px 2px 5px darkgrey}

diff --git a/vufind/web/interface/themes/englewood/css/main.css b/vufind/web/interface/themes/englewood/css/main.css
@@ -7415,9 +7415,6 @@ div#system-message-header {
   background-image: url('/interface/themes/englewood/images/header_background.png');
   background-repeat: no-repeat;
 }
-#header-logo {
-  display: none;
-}
 .header-button {
   border-radius: 0.5em;
   background-color: rgba(255, 255, 255, 0.75);

diff --git a/vufind/web/interface/themes/englewood/css/main.less b/vufind/web/interface/themes/englewood/css/main.less
@@ -10,7 +10,7 @@
   background-repeat: no-repeat;
 }
 #header-logo{
-  display:none;
+
 }
 .header-button{
   border-radius:  0.5em;
